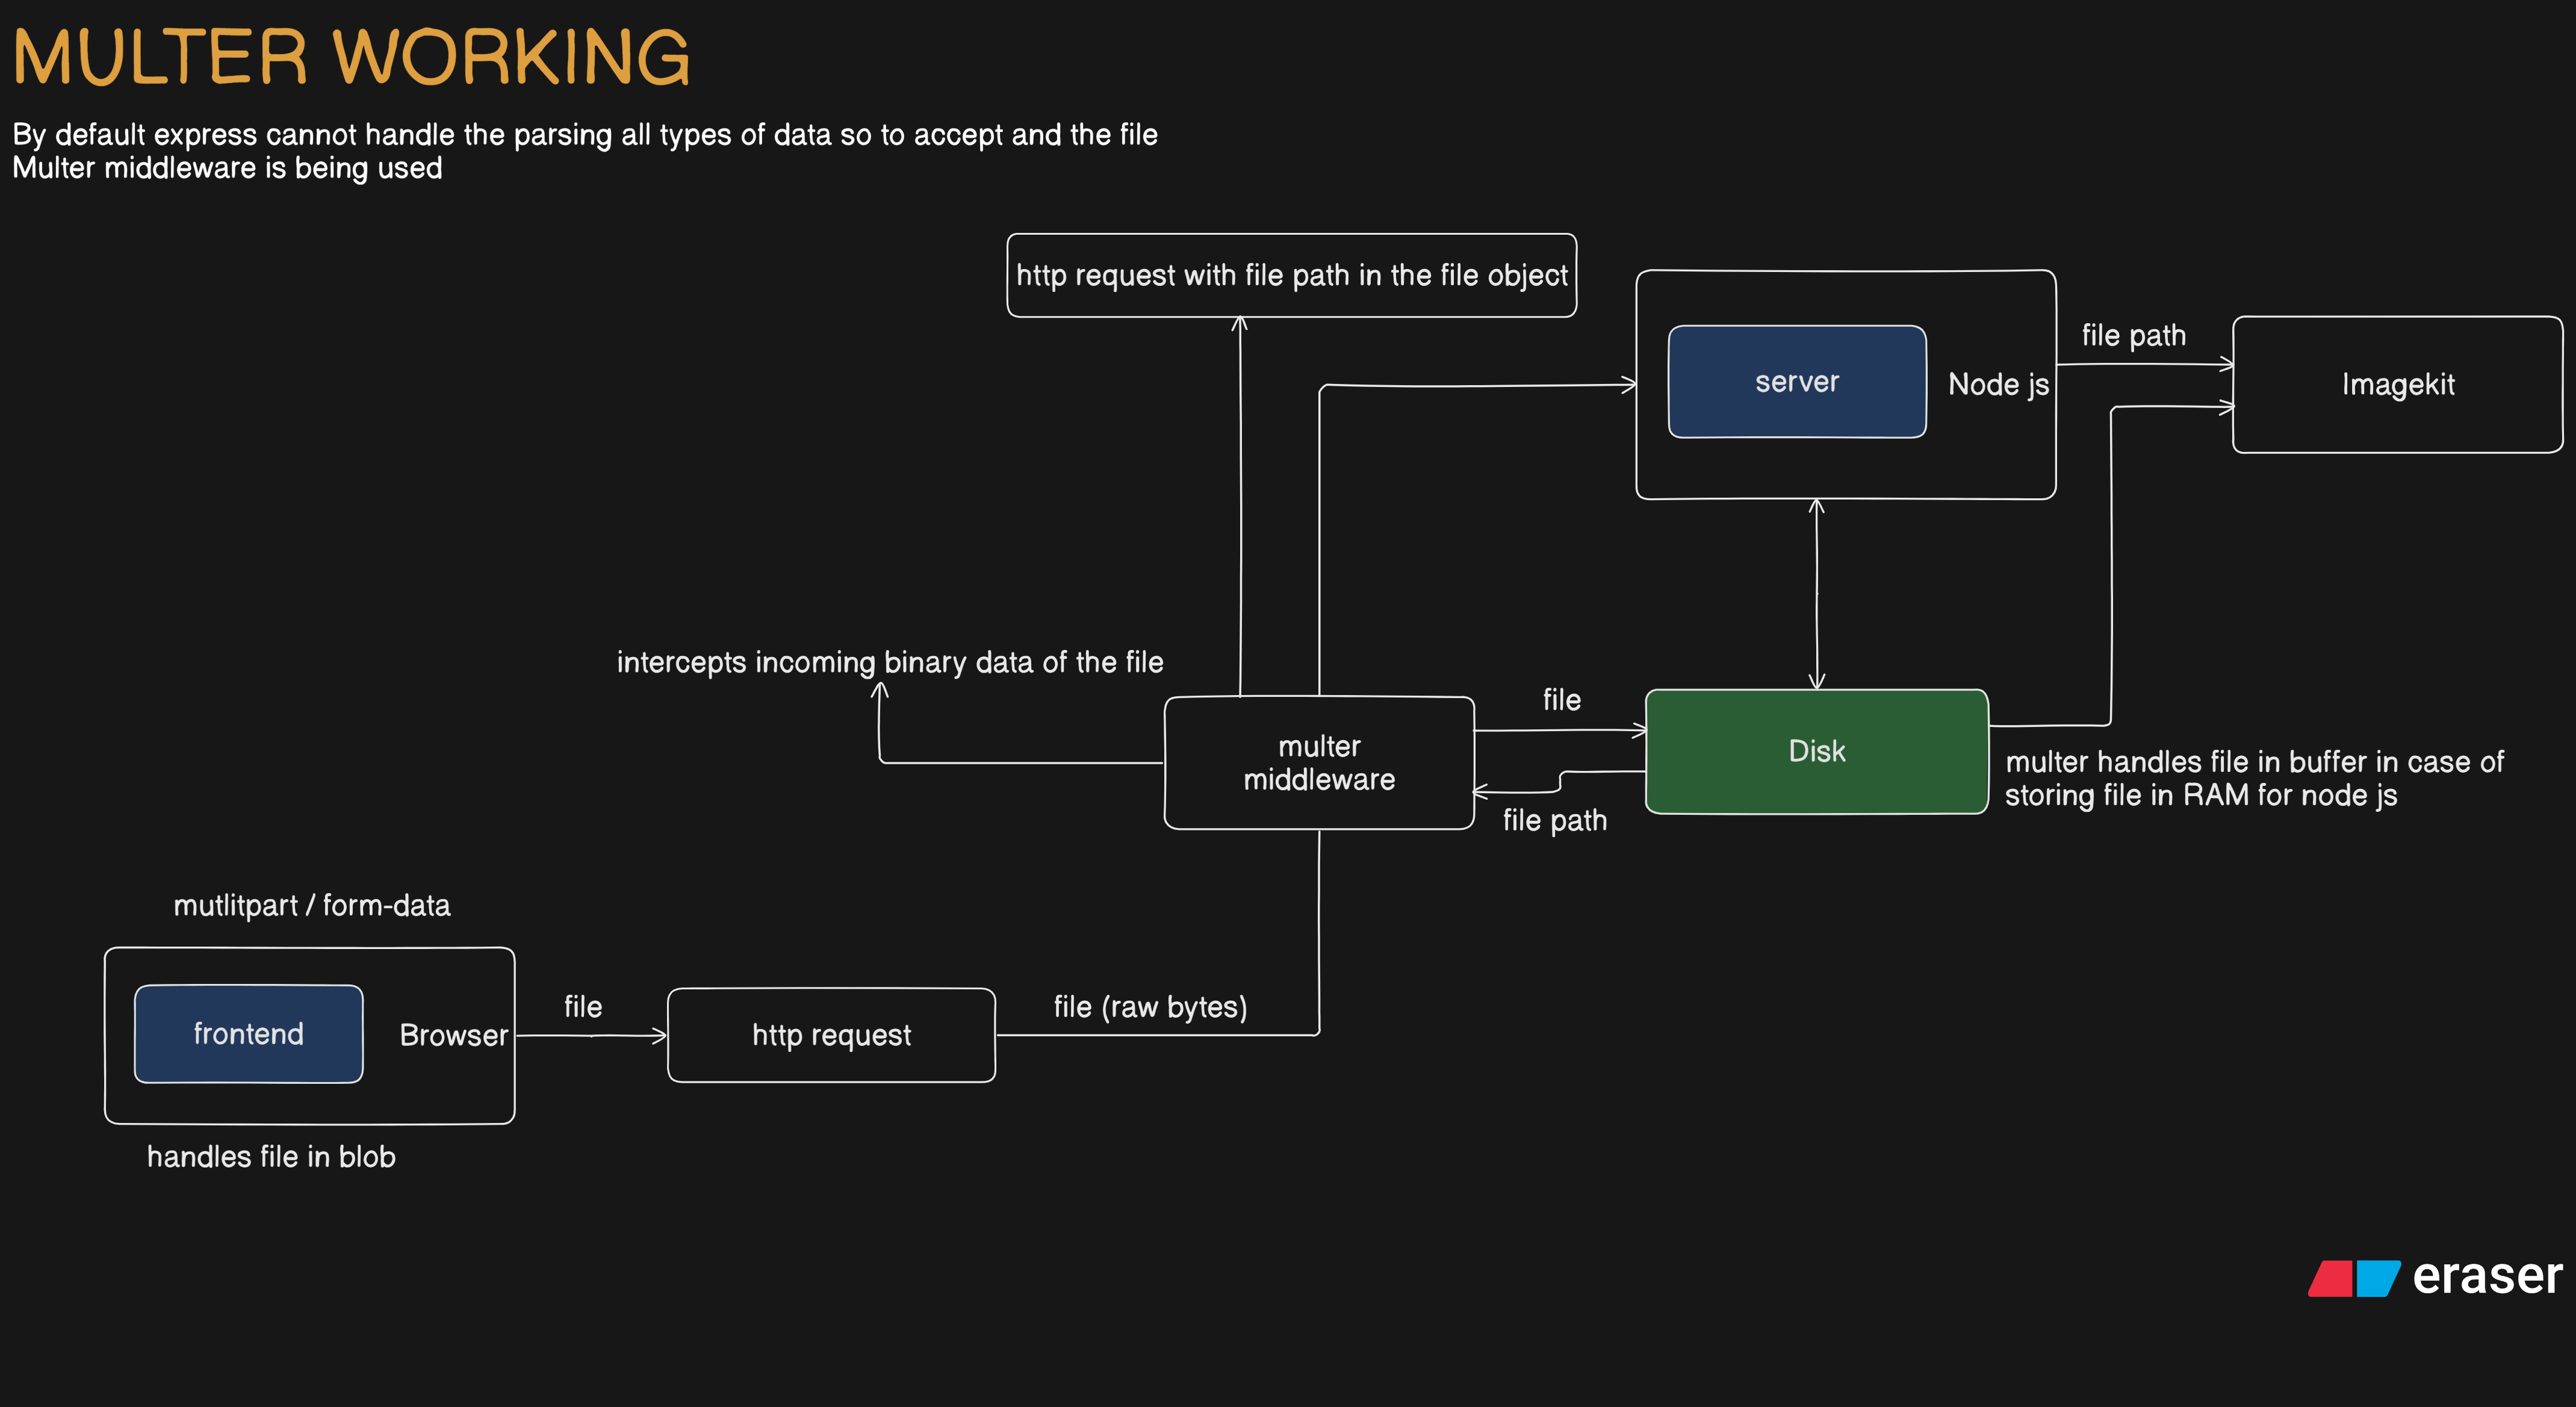
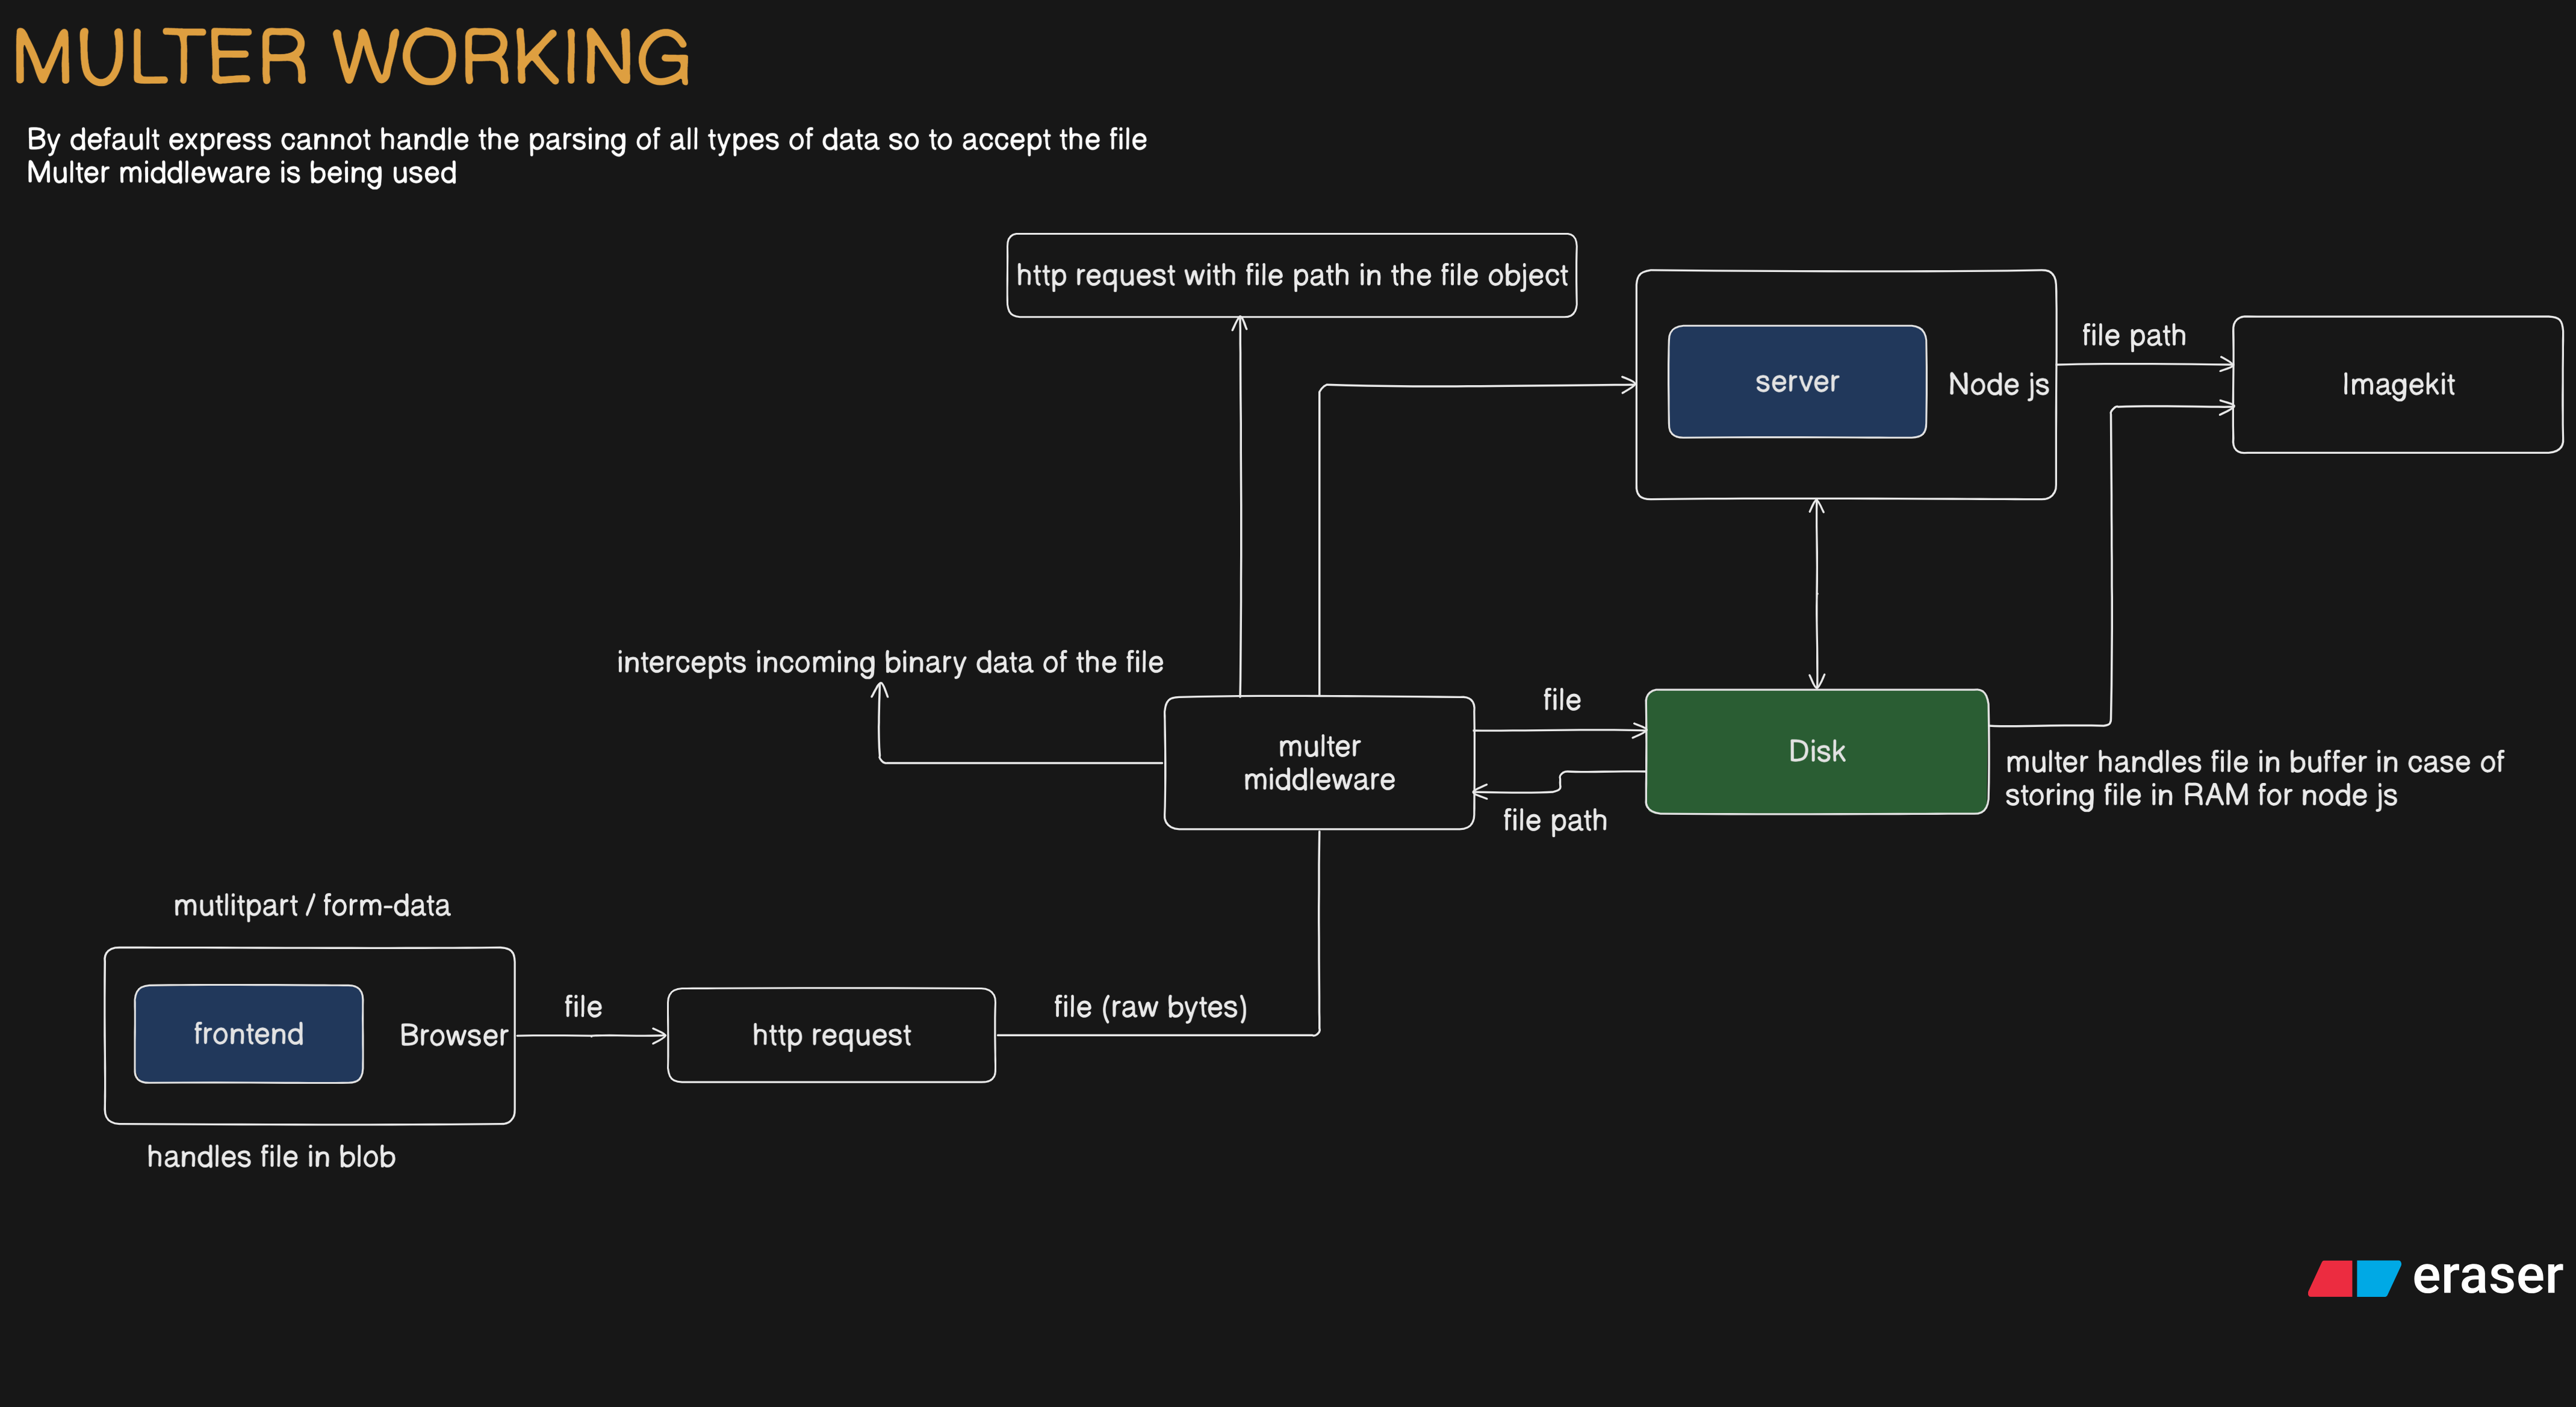
re-format structuring

Changed region(s): [[0.0, 0.0937, 0.4662, 0.1561]]

diff --git a/README.md b/README.md
@@ -9,9 +9,11 @@
 - [Database Design](#database-design)
 - [System Architecture](#system-architecture-diagram)
 - [Features](#features)
-- [Authentication Flow](#authentication-flow)
-- [HTTP Communication Flow](#http-communicaton-flow)
-- [Axios Interceptor Flow](#axios-interceptor-flow)
+- [Backend Working](#backend-working)
+  - [Authentication Flow](#authentication-flow)
+  - [HTTP Communication Flow](#http-communicaton-flow)
+- [Frontend Working](#frontend-working)
+  - [Axios Interceptor Flow](#axios-interceptor-flow)
 - [Roadmap](#roadmap)
 
 ## About
@@ -105,11 +107,13 @@ WRITTES is a full-stack blog writing and sharing web platform currently in devel
 - Paginated search results
 - Post aggregation with author info & like status in a single DB query
 
-## Authentication Flow
+## Backend Working
 
-### Registration Flow
+### Authentication Flow
 
-#### Control - 1
+#### Registration Flow
+
+##### Control - 1
 
 - User submits essential informations - username, password, email, fullName
 - Client validates form data and sends registration request to server
@@ -118,7 +122,7 @@ WRITTES is a full-stack blog writing and sharing web platform currently in devel
 - Server delivers the one time passcode to the registered email for verification
 - Server generates JWT `verificationToken` and sends the token to the client (browser cookie)
 
-#### Control - 2
+##### Control - 2
 
 - User submits the verification one time passcode
 - Client validates the passcode and sends verification request to server with the `verificationToken` in the cookie
@@ -127,9 +131,9 @@ WRITTES is a full-stack blog writing and sharing web platform currently in devel
 - Server validates the one time passcode and its expiry
 - Server generates `accessToken` & `refreshToken` and sends the tokens to the client (browser cookie)
 
-### Login Flow
+#### Login Flow
 
-#### Flow Diagram
+##### Flow Diagram
 
 ![alt text](./images/login_system.png)
 
@@ -141,15 +145,17 @@ WRITTES is a full-stack blog writing and sharing web platform currently in devel
 - Server validates the password match & generates `accessToken` & `refreshToken` for login
 - Server sends the respones with user tokens to client (browser cookie)
 
-## HTTP Communicaton Flow
+### HTTP Communicaton Flows
 
-### File Upload Flow
+#### File Upload Flow
+
+#### Multer Working Diagram
+
+![alt text](./images/multer_working.png)
 
 The file management is handled by the multer middleware, because express parses nothing by default middlewares manage the data parsing while http requests are made with the data to the server. So Multer middleware intercepts the http requests and handles the incoming raw bytes of the file.
 
-### Multer Working Diagram
-
-![alt text](./images/multer_working.png)
+## Frontend Working
 
 ### Axios Interceptor Flow
 